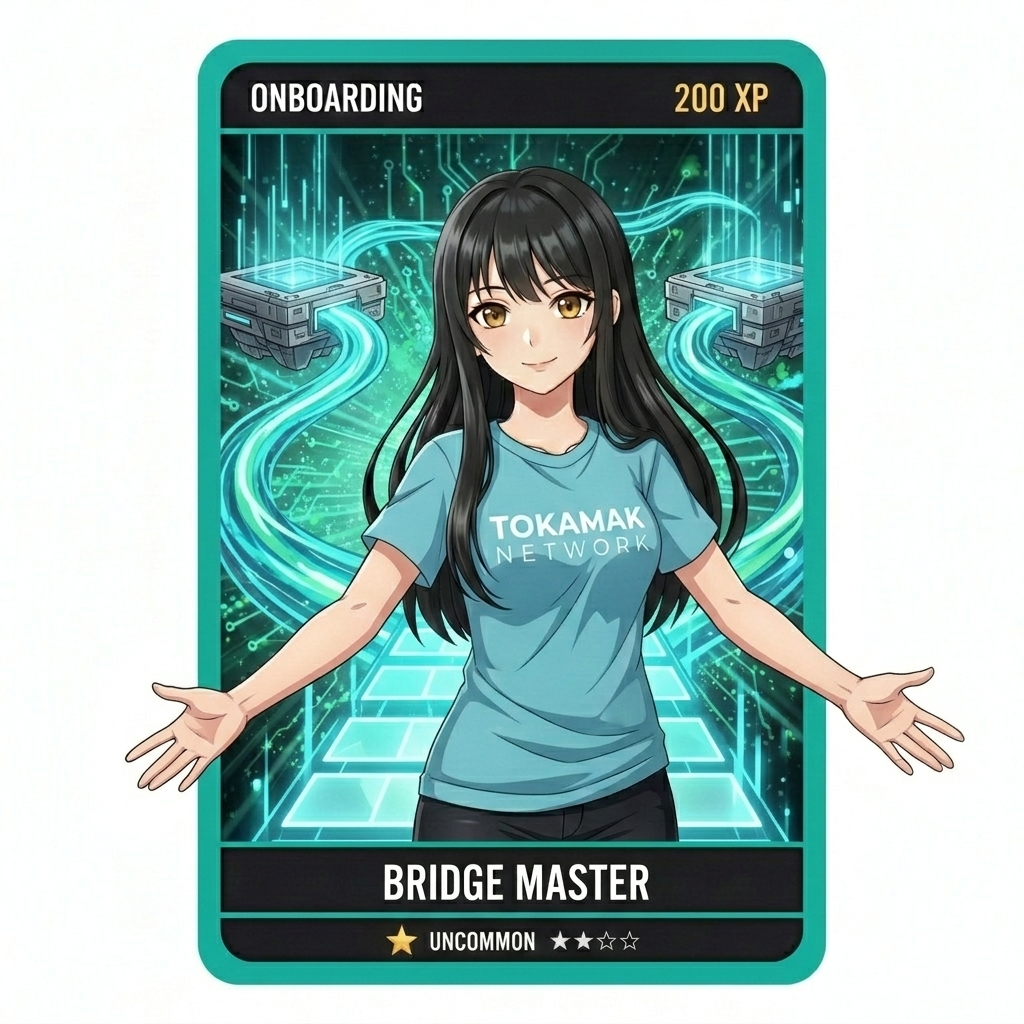
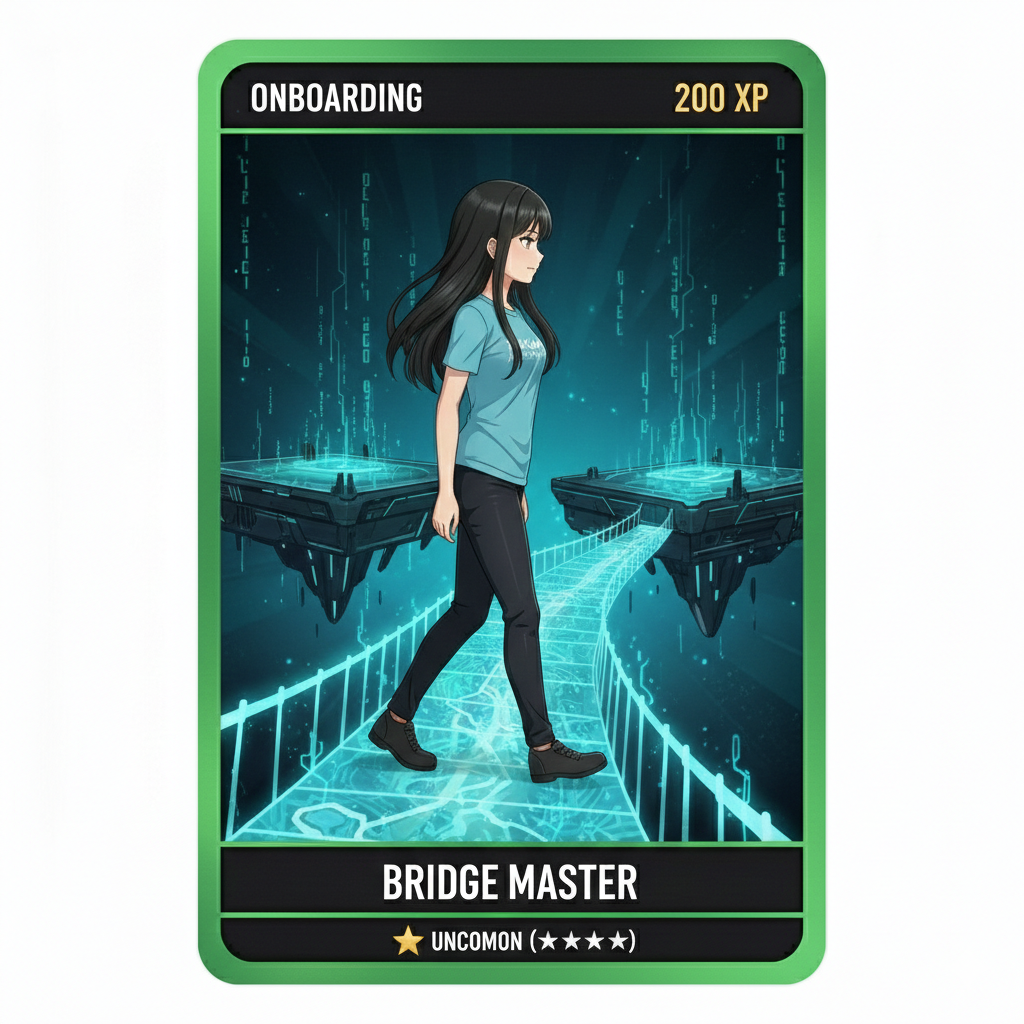
fix: crop card backgrounds and regenerate bridge card
Remove white canvas backgrounds from card images using flood-fill
edge detection. Regenerate onboarding-bridge card with arms-in pose
to prevent overflow. Sync CARD_IMAGES map in AchievementToast with
all 18 achievement cards.

diff --git a/src/components/achievements/AchievementToast.tsx b/src/components/achievements/AchievementToast.tsx
@@ -14,6 +14,18 @@ const CARD_IMAGES: Record<string, string> = {
   "onboarding-ton": "/cards/onboarding-ton.png",
   "onboarding-complete": "/cards/onboarding-complete.png",
   "stake-first": "/cards/stake-first.png",
+  "stake-10": "/cards/stake-10.png",
+  "stake-100": "/cards/stake-100.png",
+  "stake-gasless": "/cards/stake-gasless.png",
+  "stake-delegation": "/cards/stake-delegation.png",
+  "unstake-first": "/cards/unstake-first.png",
+  "explore-visit": "/cards/explore-visit.png",
+  "explore-click": "/cards/explore-click.png",
+  "explore-all-categories": "/cards/explore-all-categories.png",
+  "chat-start": "/cards/chat-start.png",
+  "chat-dialogue-10": "/cards/chat-dialogue-10.png",
+  "chat-freetext": "/cards/chat-freetext.png",
+  "power-user": "/cards/power-user.png",
 };
 
 // ─── Category Colors ────────────────────────────────────────────────────────
